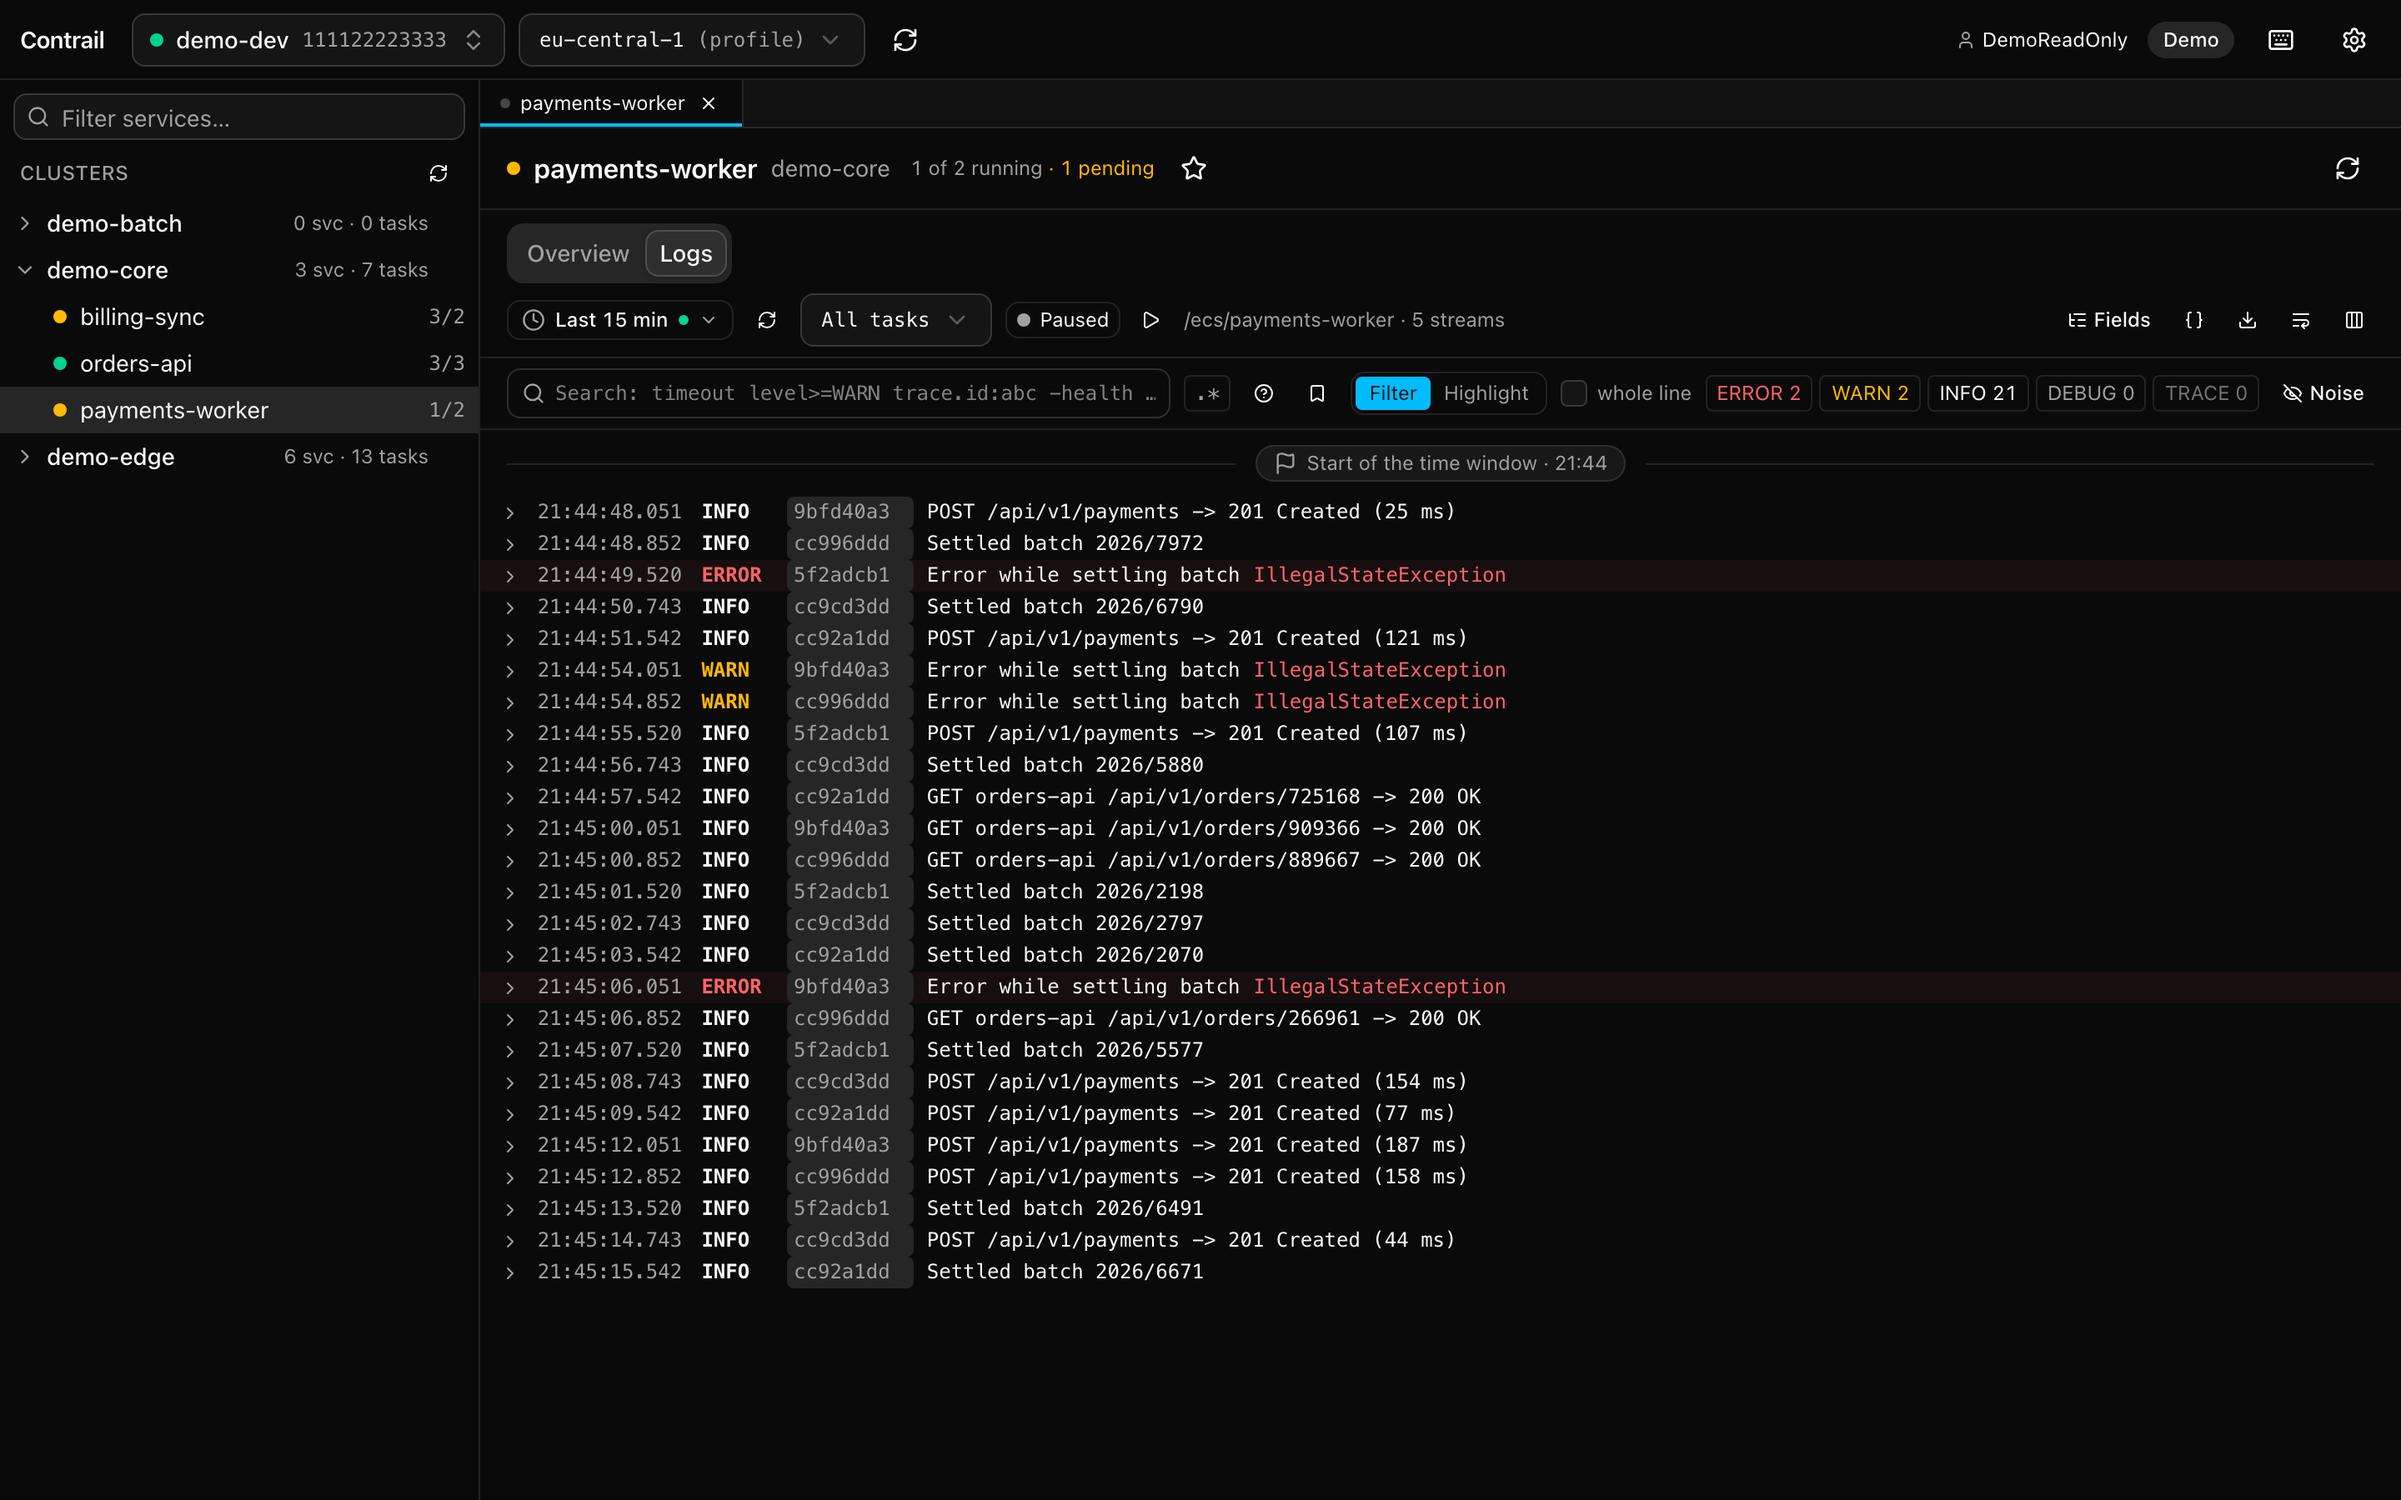
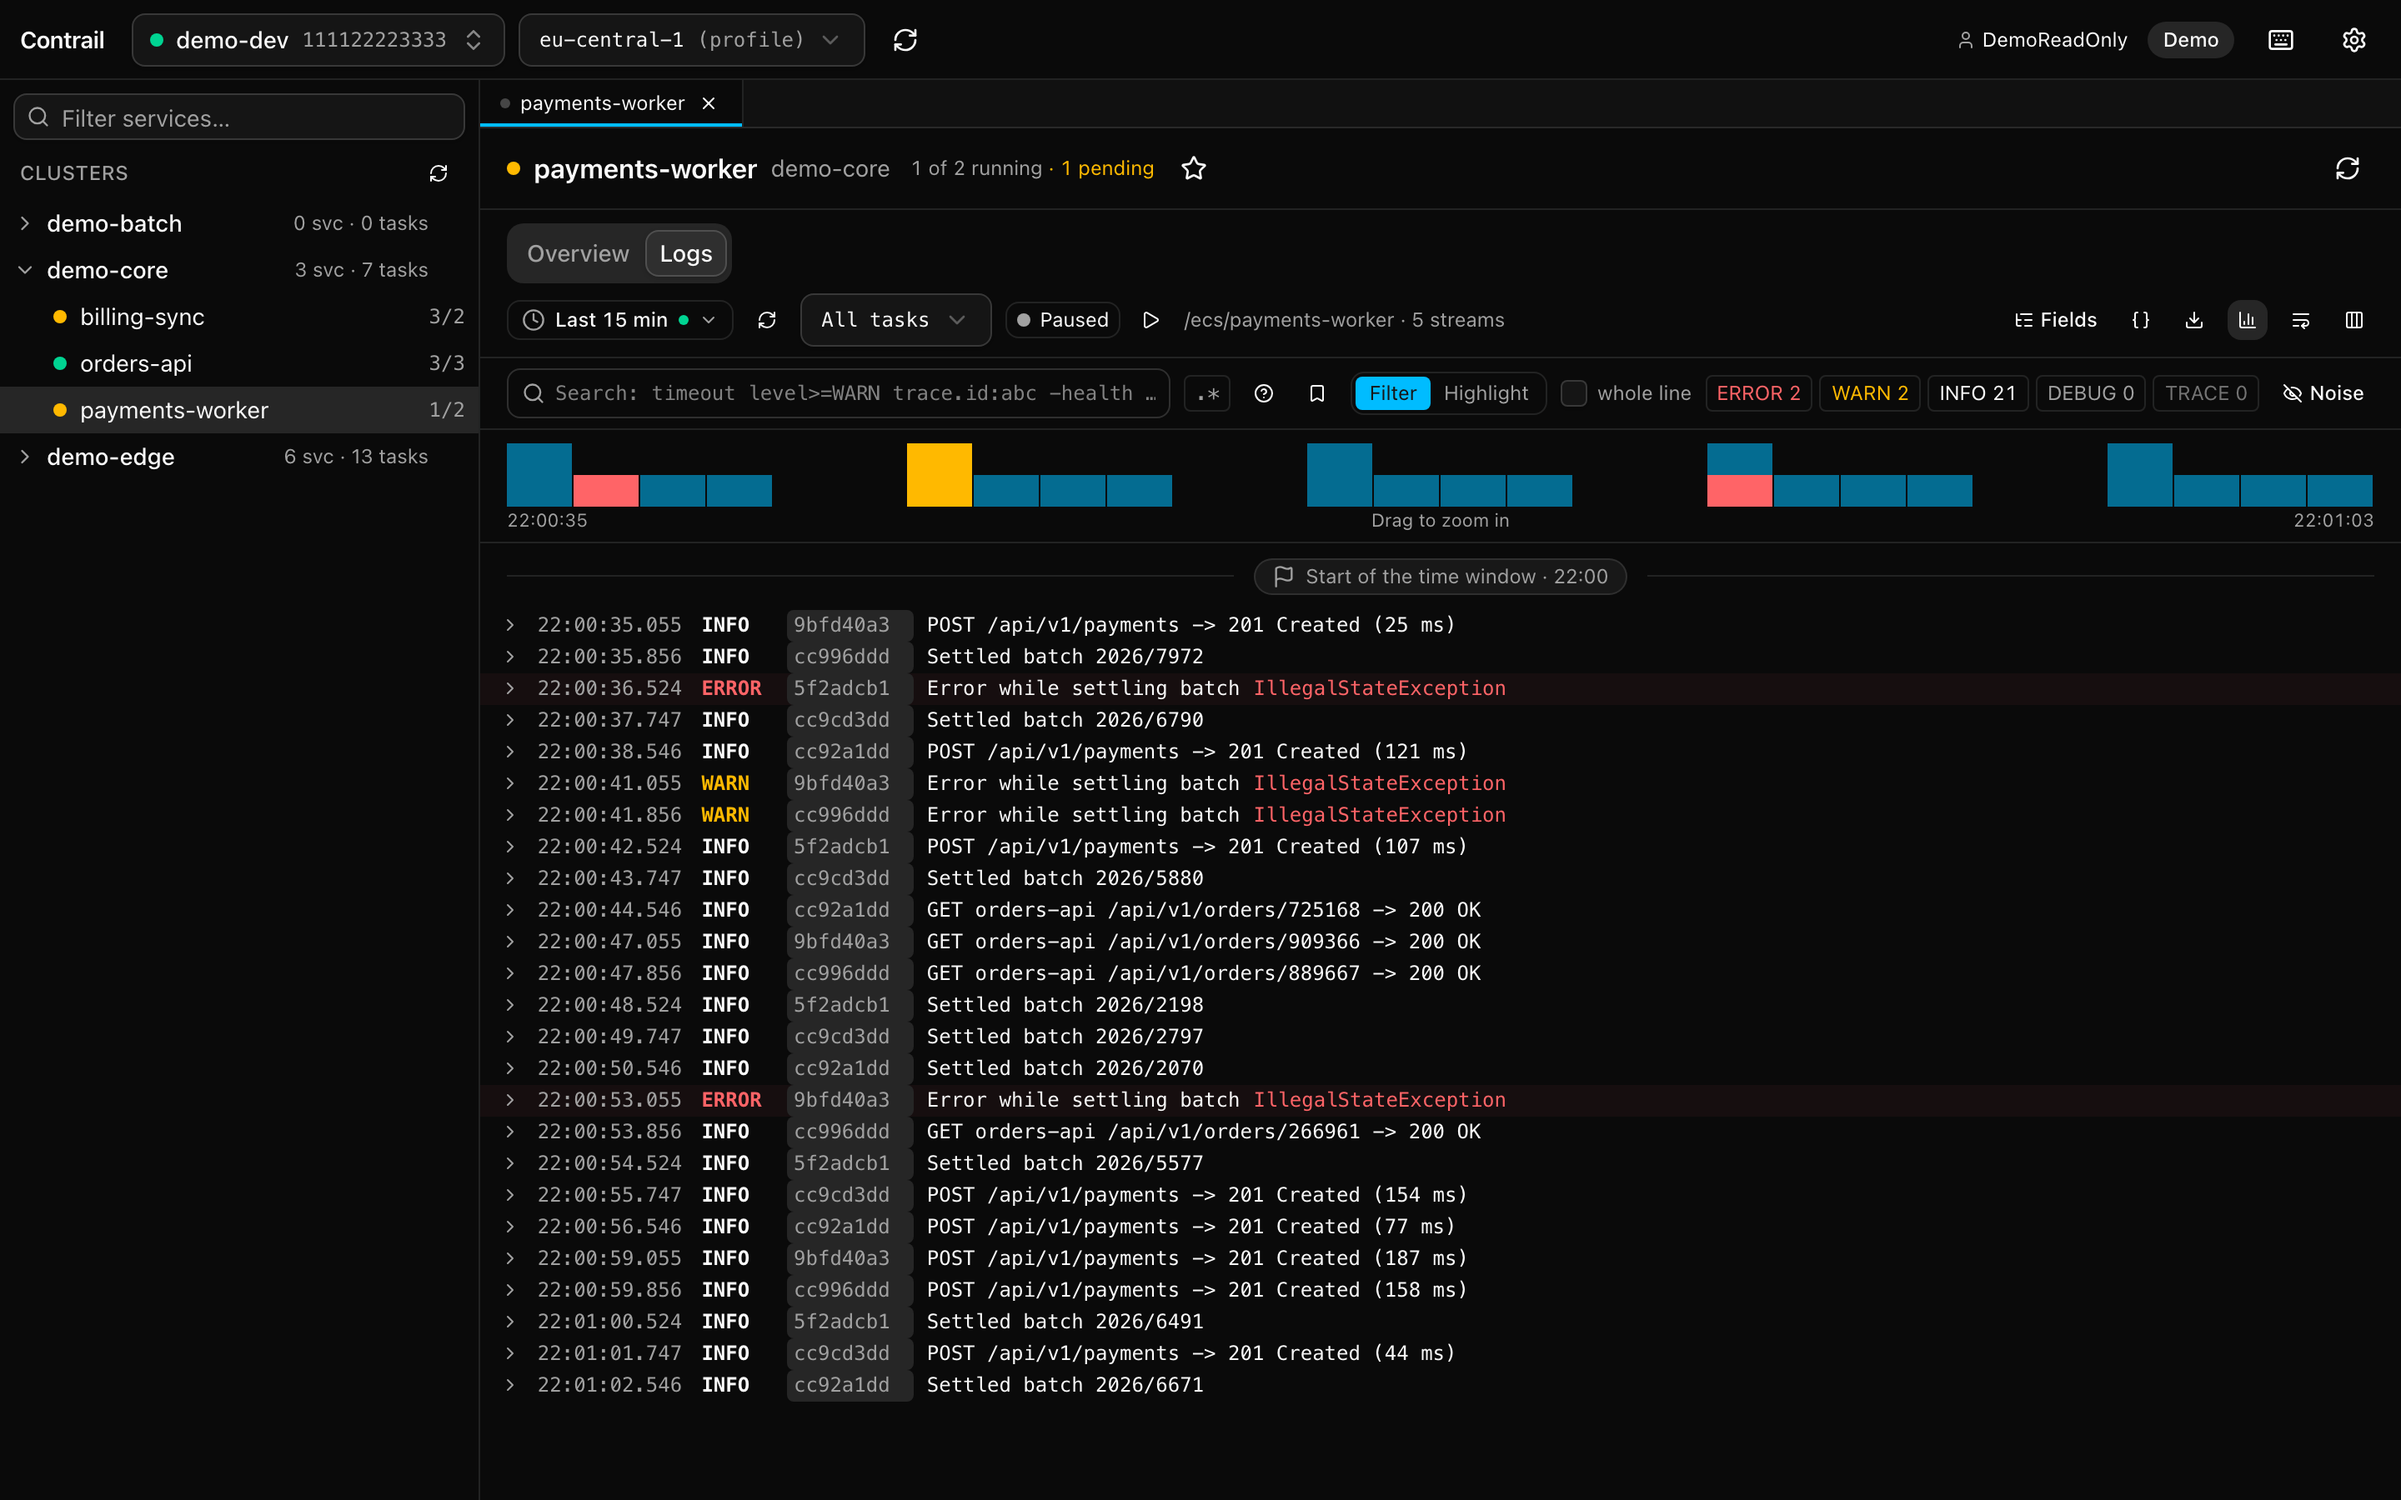
docs: the timeline, and refreshed screenshots

diff --git a/docs/decisions.md b/docs/decisions.md
@@ -426,3 +426,17 @@ Built on `feat/m9-trace-on-route-graph`; merged only if Patrick finds it useful 
   (MIT), the approach React Flow documents. All nodes are rendered for the capture (normally only visible ones
   are). Rust writes the file through `save_image`, which only writes `.png`/`.svg` to the path picked in the
   save dialog; the image travels as base64 (`base64` crate, already in the lockfile through the AWS SDK).
+
+## 2026-10-26 — M13: timeline
+
+- **Counted in Rust** over the listed events (the matches when filtering, everything when highlighting, like the
+  list), by level, in buckets of a round length (1 s … 7 days) so the range fits in about one bucket per 5 px
+  of the chart. Buckets are aligned to the time zone shown (setting), so hour and day bars start at :00 and
+  midnight there; a range across a DST change keeps the offset of "now" (good enough for a log view).
+- **Range:** from as far back as events are loaded (long windows load newest first; unloaded time must not
+  look like "no events") to the window's end or the newest event, whichever is later.
+- **Axis:** oldest left, newest right, also with "newest first": a time axis reads that way everywhere; the
+  setting only orders the list.
+- **Live:** the chart asks again when the events, the search or its width change, at most once a second.
+- **Dragging** sets a fixed time range (whole buckets under the drag); the view reloads for it, like picking
+  the range in the time picker. A setting (`showTimeline`, on by default) hides the chart.

diff --git a/docs/user-guide.md b/docs/user-guide.md
@@ -37,6 +37,8 @@ page has the details.
   button) shows only one task; the columns button adds logger, thread or correlation/trace ID. Logger names are
   shortened like Spring Boot does (`c.e.orders.OrderService`); hover for the full name. The wrap button (or **W**)
   wraps long messages instead of cutting them off.
+- **Timeline** (above the list; the chart button in the toolbar hides it): events over time, stacked by level,
+  following the search. Hover a bar for its time and counts; drag across bars to narrow the time window to them.
 - **Time window:** click it in the toolbar (or press **T**) and type what you want: `15m`, `3h`, `2d`, `1w`, `1h30m`,
   `today`, `since 14:00`, `yesterday`, `oct 20`, `9:00-11:30` or `yesterday 9-11`. The picker shows what it understood
   before you press Enter, and whether the window will follow live, open paused or be a fixed range. Quick windows,
